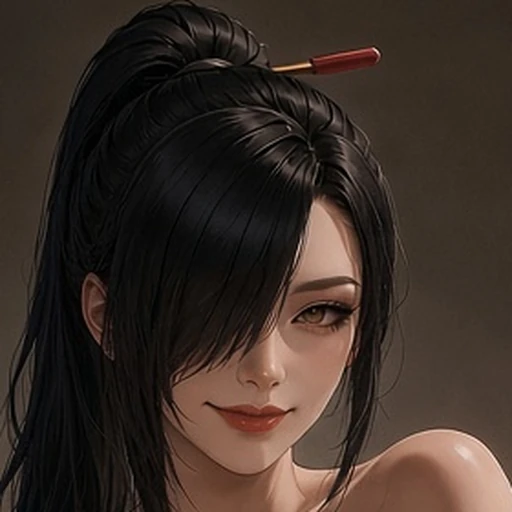
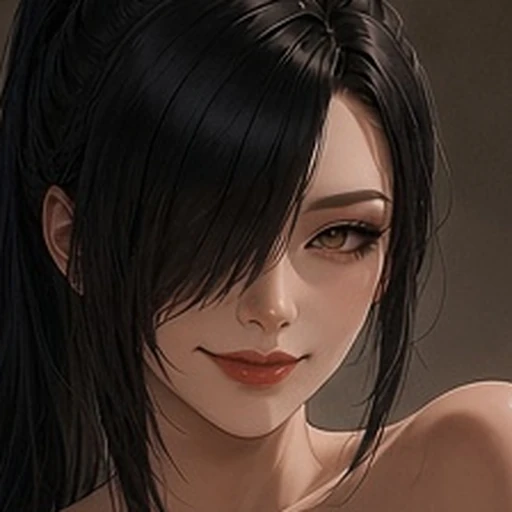
居中红莲与晴岚自走棋头像

diff --git a/tools/hero-roster.test.js b/tools/hero-roster.test.js
@@ -75,10 +75,11 @@ const NEW_FOUR_HEROES = {
     skillKind: 'row',
     mainMult: 1.15,
     rowMult: 1.15,
+    avatar: 'assets/battle/avatars/honglian.webp?v=2',
     size: { width: 1008, height: 1792 },
[4 lines of base64/hex data omitted]
   },
   molan: {
     name: '墨兰执事',
@@ -101,10 +102,11 @@ const NEW_FOUR_HEROES = {
     skillName: '流风逐影',
     skillKind: 'single',
     mainMult: 1.75,
+    avatar: 'assets/battle/avatars/qinglan.webp?v=2',
     size: { width: 1080, height: 1920 },
[4 lines of base64/hex data omitted]
   }
 };
 const PREVIOUS_IDS = ['lanyi', 'cloak', 'saintess', 'miko', 'shuanghua', 'sweetmaid', 'jianghua', 'qingkui'];
@@ -606,7 +608,7 @@ assert.ok(css.includes('MaShanZheng-Role.woff2?v=11'));
 
 const index = text('index.html');
 assert.ok(index.includes('css/style.css?v=81'));
-assert.ok(index.includes('js/config.js?v=64'));
+assert.ok(index.includes('js/config.js?v=65'));
 assert.ok(index.includes('js/state.js?v=30'));
 assert.ok(index.includes('js/battle.js?v=33'));
 

diff --git a/js/config.js b/js/config.js
@@ -1106,7 +1106,7 @@
         name: '红莲妖姬',
         quality: 'di',
         unlockCond: '踏入仙途（初始免费解锁）',
-        avatar: 'assets/battle/avatars/honglian.webp?v=1',
+        avatar: 'assets/battle/avatars/honglian.webp?v=2',
         avatarPos: '44% 10%',
         avatarScale: 2.6,
         img: 'assets/hero_honglian_hd.jpg?v=1',
@@ -1152,7 +1152,7 @@
         name: '晴岚游侠',
         quality: 'xuan',
         unlockCond: '踏入仙途（初始免费解锁）',
-        avatar: 'assets/battle/avatars/qinglan.webp?v=1',
+        avatar: 'assets/battle/avatars/qinglan.webp?v=2',
         avatarPos: '44% 15%',
         avatarScale: 2.6,
         img: 'assets/hero_qinglan_hd.jpg?v=1',

diff --git a/index.html b/index.html
@@ -575,7 +575,7 @@
   </div>
 
   <script src="js/no-zoom.js?v=22"></script>
-  <script src="js/config.js?v=64"></script>
+  <script src="js/config.js?v=65"></script>
   <script src="js/equip.js?v=22"></script>
   <script src="js/state.js?v=30"></script>
   <script src="js/titles.js?v=23"></script>
